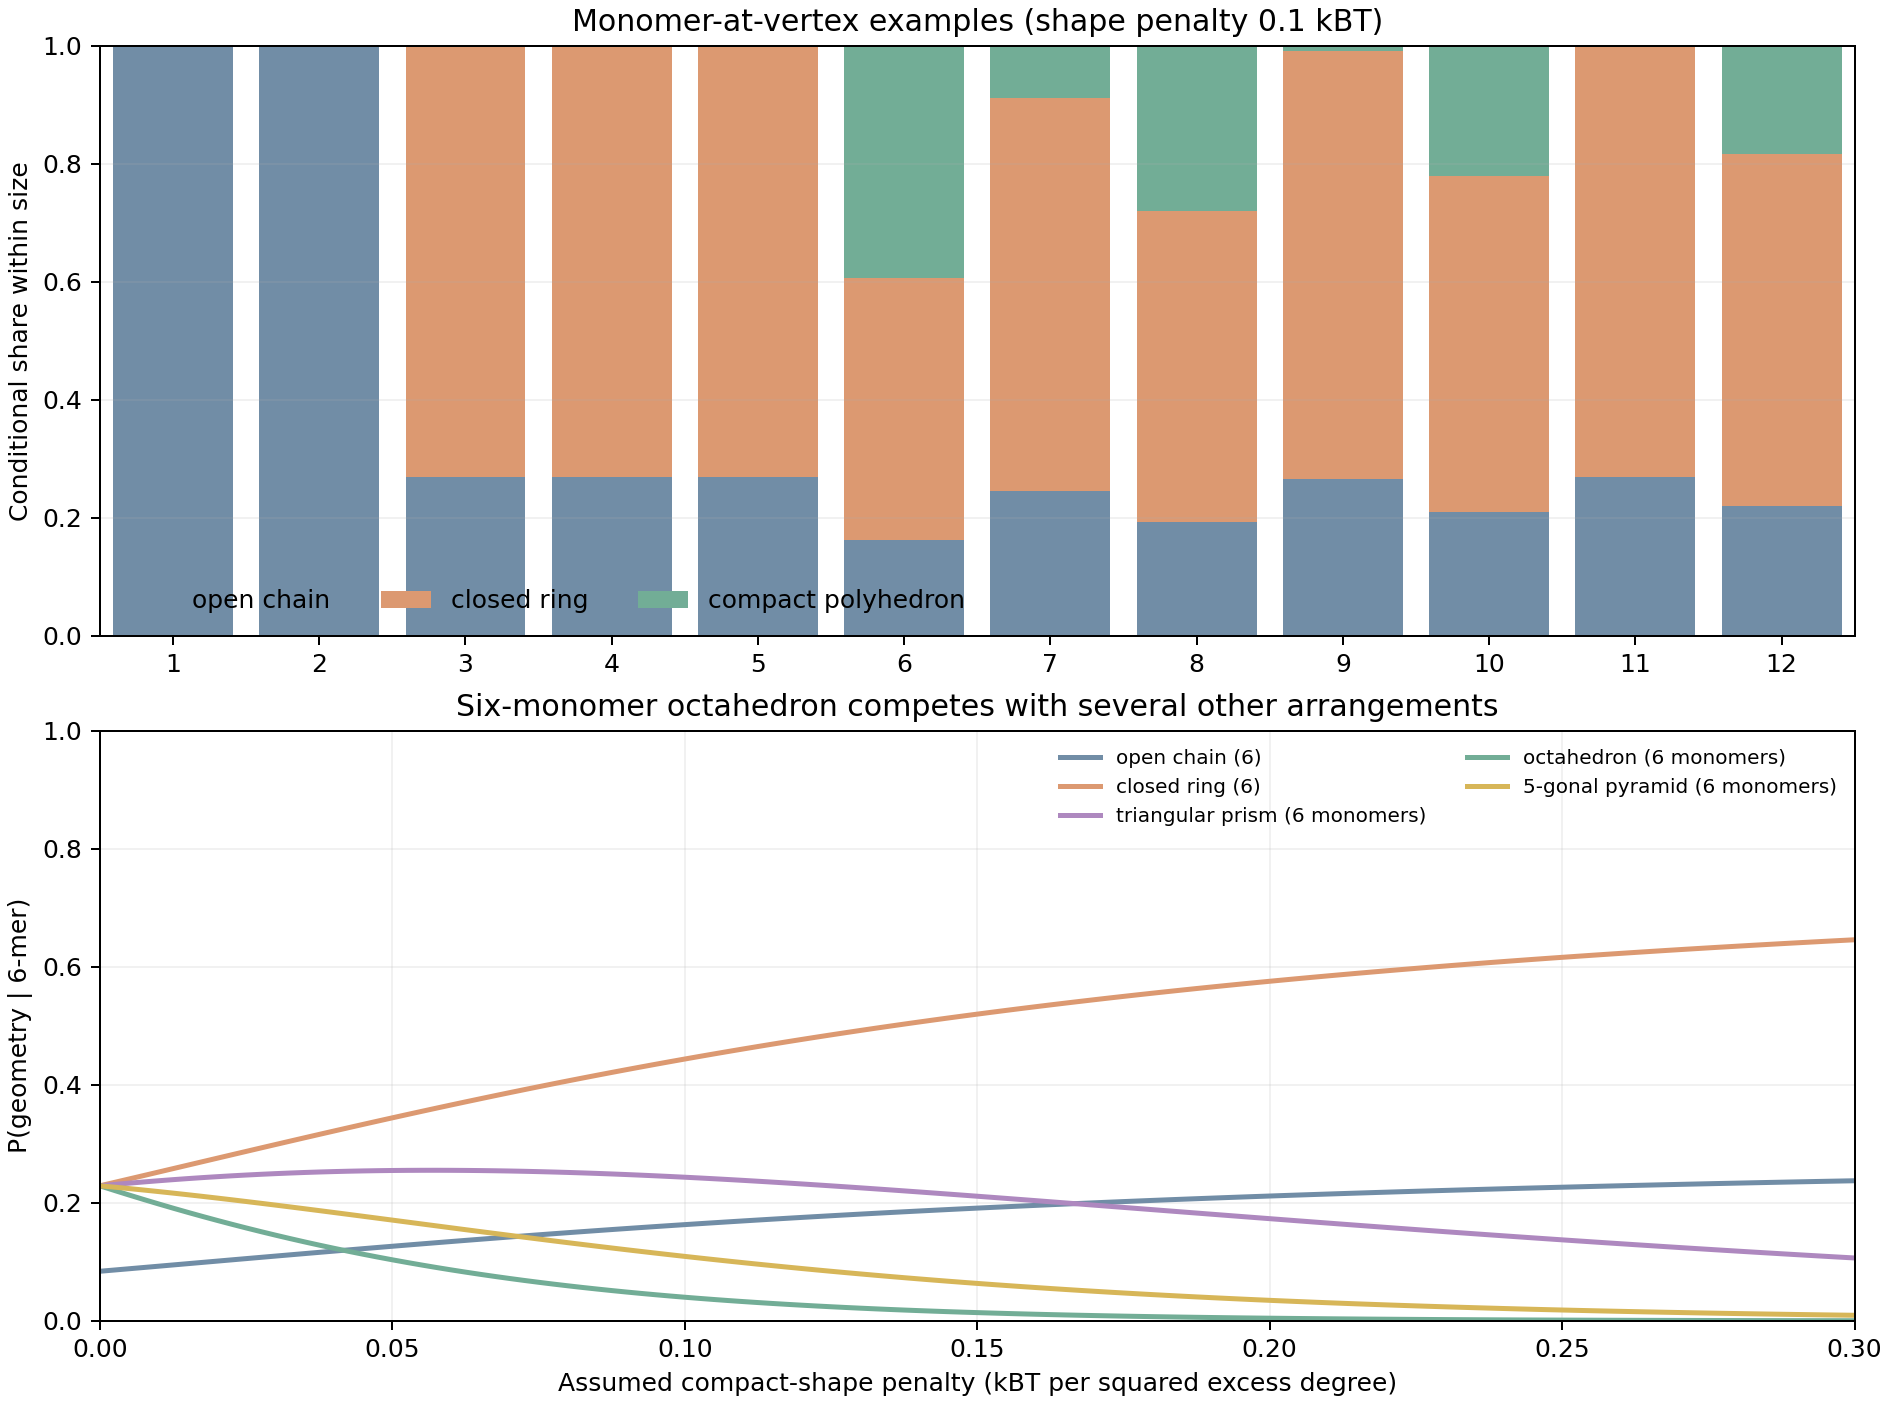
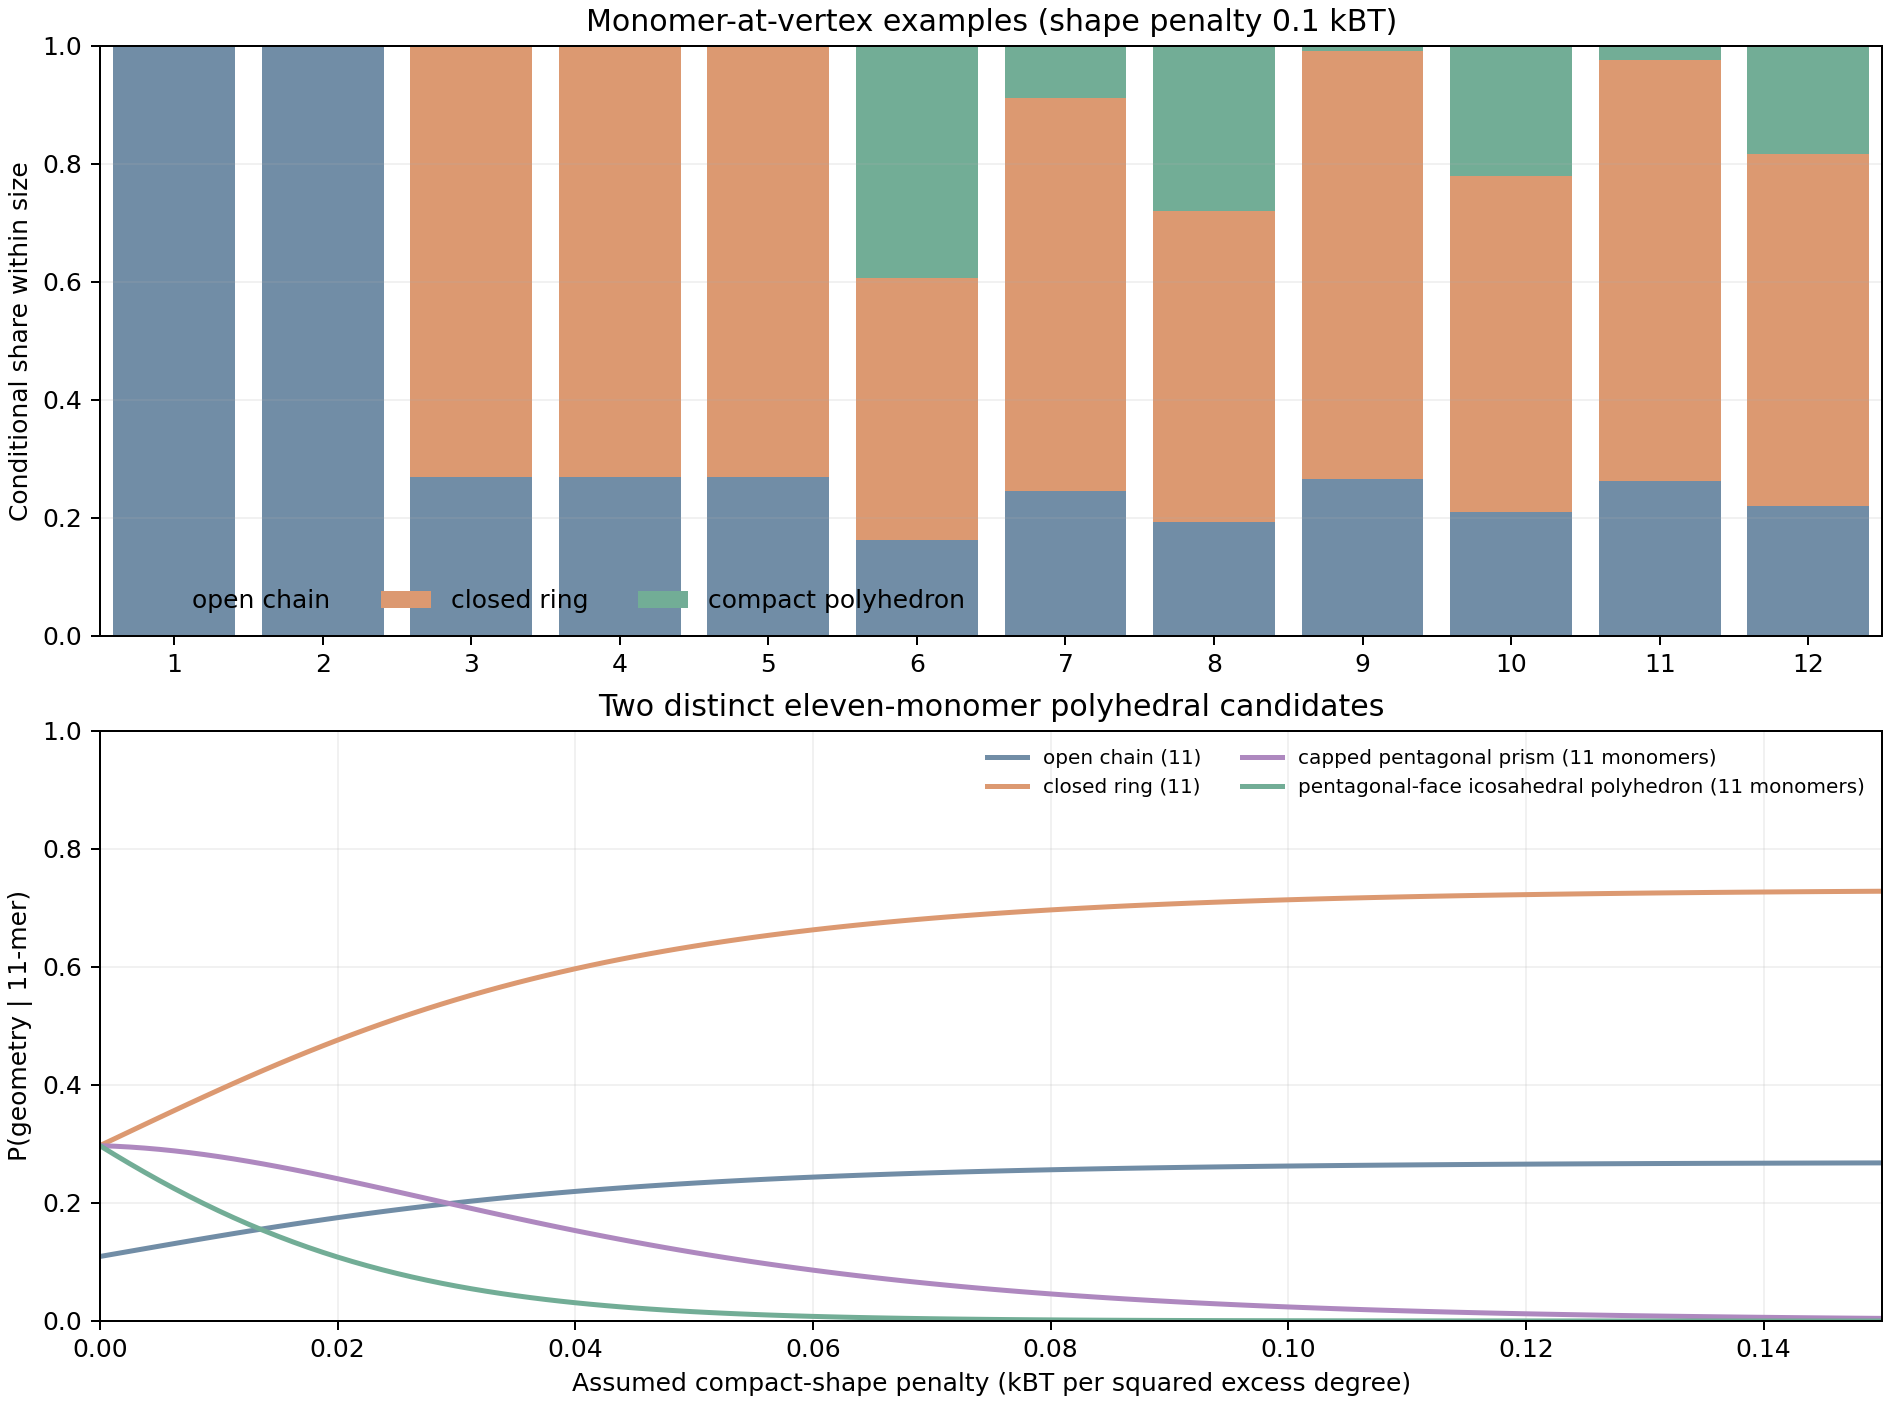
Add two eleven-monomer polyhedral candidates

diff --git a/single/statistical_mechanics/compare_monomer_geometries.py b/single/statistical_mechanics/compare_monomer_geometries.py
@@ -32,7 +32,7 @@ def main() -> None:
         writer.writeheader()
         writer.writerows(rows)
 
-    fig, (ax_all, ax_six) = plt.subplots(2, 1, figsize=(10.5, 7.8),
+    fig, (ax_all, ax_eleven) = plt.subplots(2, 1, figsize=(10.5, 7.8),
                                        layout="constrained")
     families = ("open chain", "closed ring", "compact polyhedron")
     colors = ("#718da6", "#dc9971", "#72ad96")
@@ -53,28 +53,28 @@ def main() -> None:
     ax_all.legend(frameon=False, ncol=3, loc="lower left")
     ax_all.grid(axis="y", alpha=0.17)
 
-    penalty_grid = np.linspace(0, 0.3, 121)
-    six_names = [item.name for item in candidates if item.monomers == 6]
-    line_colors = ("#718da6", "#dc9971", "#ae88bf", "#72ad96", "#d7b658")
-    for name, color in zip(six_names, line_colors):
+    penalty_grid = np.linspace(0, 0.15, 121)
+    eleven_names = [item.name for item in candidates if item.monomers == 11]
+    line_colors = ("#718da6", "#dc9971", "#ae88bf", "#72ad96")
+    for name, color in zip(eleven_names, line_colors):
         shares = []
         for penalty in penalty_grid:
             values = monomer_contributions(
-                6, MonomerEnergy(1, 1, float(penalty)), candidates=candidates)
+                11, MonomerEnergy(1, 1, float(penalty)), candidates=candidates)
             shares.append(next(item.share for item in values if item.geometry == name))
-        ax_six.plot(penalty_grid, shares, linewidth=2, label=name, color=color)
-    ax_six.set(xlim=(0, 0.3), ylim=(0, 1),
+        ax_eleven.plot(penalty_grid, shares, linewidth=2, label=name, color=color)
+    ax_eleven.set(xlim=(0, 0.15), ylim=(0, 1),
                xlabel="Assumed compact-shape penalty (kBT per squared excess degree)",
-               ylabel="P(geometry | 6-mer)",
-               title="Six-monomer octahedron competes with several other arrangements")
-    ax_six.legend(frameon=False, ncol=2, fontsize=8)
-    ax_six.grid(alpha=0.17)
+               ylabel="P(geometry | 11-mer)",
+               title="Two distinct eleven-monomer polyhedral candidates")
+    ax_eleven.legend(frameon=False, ncol=2, fontsize=8)
+    ax_eleven.grid(alpha=0.17)
     image_path = directory / "monomer_geometry_contributions.png"
     fig.savefig(image_path, dpi=180)
     plt.close(fig)
     print(f"Wrote {csv_path}")
     print(f"Wrote {image_path}")
-    for size in (3, 5, 6, 8, 12):
+    for size in (3, 5, 6, 8, 11, 12):
         values = monomer_contributions(
             size, MonomerEnergy(1, 1, 0.1), candidates=candidates)
         print(f"{size}-mer: " + ", ".join(

diff --git a/single/statistical_mechanics/test_monomer_geometry_ensemble.py b/single/statistical_mechanics/test_monomer_geometry_ensemble.py
@@ -58,6 +58,11 @@ class MonomerGeometryTests(unittest.TestCase):
         six = {item.name for item in default if item.monomers == 6}
         self.assertIn("octahedron (6 monomers)", six)
         self.assertIn("triangular prism (6 monomers)", six)
+        eleven = [item for item in default if item.monomers == 11]
+        self.assertEqual({item.family for item in eleven},
+                         {"open chain", "closed ring", "compact polyhedron"})
+        self.assertEqual(len([item for item in eleven if item.family ==
+                              "compact polyhedron"]), 2)
         optional = monomer_candidates(5, include_small_polyhedra=True)
         self.assertIn("tetrahedron (4 monomers)", {item.name for item in optional})
         self.assertIn("triangular dipyramid (5 monomers)",
@@ -81,6 +86,16 @@ class MonomerGeometryTests(unittest.TestCase):
         self.assertTrue(all(item.dimer_contacts == 3 and
                             item.c_terminal_contacts == 6 for item in closed))
         self.assertAlmostEqual(sum(item.share for item in values), 1)
+
+    def test_eleven_vertex_polyhedra_are_distinct_and_normalized(self):
+        compact = [item for item in monomer_candidates(12)
+                   if item.monomers == 11 and item.family == "compact polyhedron"]
+        self.assertEqual({len(item.edges) for item in compact}, {20, 25})
+        self.assertTrue(all(item.dimer_contacts == 5 and
+                            item.c_terminal_contacts == 11 for item in compact))
+        values = monomer_contributions(11, MonomerEnergy(1, 1, 0.1))
+        self.assertAlmostEqual(sum(item.share for item in values), 1)
+        self.assertEqual(len(values), 4)
 
     def test_contact_and_shape_energies_change_shares(self):
         no_terminal = monomer_contributions(3, MonomerEnergy(1, 0, 0))

diff --git a/single/statistical_mechanics/monomer_geometry_ensemble.py b/single/statistical_mechanics/monomer_geometry_ensemble.py
@@ -117,6 +117,24 @@ def _icosahedron() -> MonomerGeometry:
     return _compact("icosahedron (12 monomers)", 12, tuple(edges))
 
 
+def _capped_pentagonal_prism() -> MonomerGeometry:
+    """Eleven-vertex prism with a pyramid erected on one pentagonal face."""
+    edges = prism(5).edges + tuple((i, 10) for i in range(5))
+    return _compact("capped pentagonal prism (11 monomers)", 11, edges)
+
+
+def _pentagonal_face_icosahedron() -> MonomerGeometry:
+    """Delete one icosahedral apex, leaving an eleven-vertex polyhedral graph.
+
+    The five neighbours of the deleted apex bound a pentagonal face in the
+    resulting graph; no missing monomer is included in its contact counts.
+    """
+    edges = tuple((a - 1, b - 1) for a, b in _icosahedron().edges
+                  if a != 0 and b != 0)
+    return _compact("pentagonal-face icosahedral polyhedron (11 monomers)",
+                    11, edges)
+
+
 def monomer_candidates(max_size: int = 12, *,
                        include_small_polyhedra: bool = False) -> tuple[MonomerGeometry, ...]:
     """One open path and one closed cycle per size, plus selected compact graphs.
@@ -136,6 +154,8 @@ def monomer_candidates(max_size: int = 12, *,
         _compact("triangular prism (6 monomers)", 6, prism(3).edges),
         _compact("octahedron (6 monomers)", 6, octahedron().edges),
         _compact("cube (8 monomers)", 8, cube().edges),
+        _capped_pentagonal_prism(),
+        _pentagonal_face_icosahedron(),
         _icosahedron(),
     ]
     for sides in range(5, 9):

diff --git a/single/statistical_mechanics/readme.md b/single/statistical_mechanics/readme.md
@@ -20,6 +20,11 @@ ring from three monomers onward, and selected compact polyhedra from six
 onward. The six-monomer candidates are an open chain, closed ring, triangular
 prism, octahedron, and pentagonal pyramid. At eight monomers, the catalogue
 includes a cube and square antiprism; at twelve it includes an icosahedron.
+The eleven-monomer catalogue now includes two distinct compact graphs:
+a pentagonal prism capped on one face (11 vertices, 20 edges) and an
+icosahedral graph with one apex removed and a pentagonal face in its place
+(11 vertices, 25 edges). Their graph edges are possible adjacencies, so
+20 or 25 edges do **not** mean that many C-terminal bonds.
 These are graph hypotheses rather than experimentally established αB-crystallin
 structures. A tetrahedron is mathematically possible with four monomers and
 a square pyramid or triangular dipyramid with five. Set
@@ -53,13 +58,20 @@ At a fixed size, the dimer energy cancels. All closed graphs also have the
 same C-terminal contact count, so distinguishing two closed shapes needs
 shape or entropy information. The [monomer-level CSV](monomer_geometry_contributions.csv)
 contains every candidate at sizes 1–12 under three shape penalties, and the
-[figure](monomer_geometry_contributions.png) shows family shares and six-mer
-sensitivity. At `epsilon_d=epsilon_C=1` and `kappa=0.1 kBT`, the six-mer
+[figure](monomer_geometry_contributions.png) shows family shares and
+eleven-mer sensitivity. At `epsilon_d=epsilon_C=1` and `kappa=0.1 kBT`, the six-mer
 shares are 16.3% open chain, 44.4% ring, 24.3% triangular prism, 4.0%
 octahedron, and 10.9% pentagonal pyramid. **These numbers illustrate the
 assumptions; they are not inferred solution abundances.** Run
 `python -m single.statistical_mechanics.compare_monomer_geometries` to
 regenerate the outputs.
+
+For the eleven-mer with those same parameters, the shares are 26.2% open
+chain, 71.3% ring, 2.38% capped pentagonal prism, and 0.044% pentagonal-face
+icosahedral graph. At zero shape penalty, each of the three closed structures
+has 29.7%, and the open chain has 10.9%. The sharp change with the unmeasured
+penalty is the point of the sensitivity plot, not evidence that either
+11-vertex polyhedron is absent in solution.
 
 ## Relative geometry contributions in the dimer-on-edge model
 
